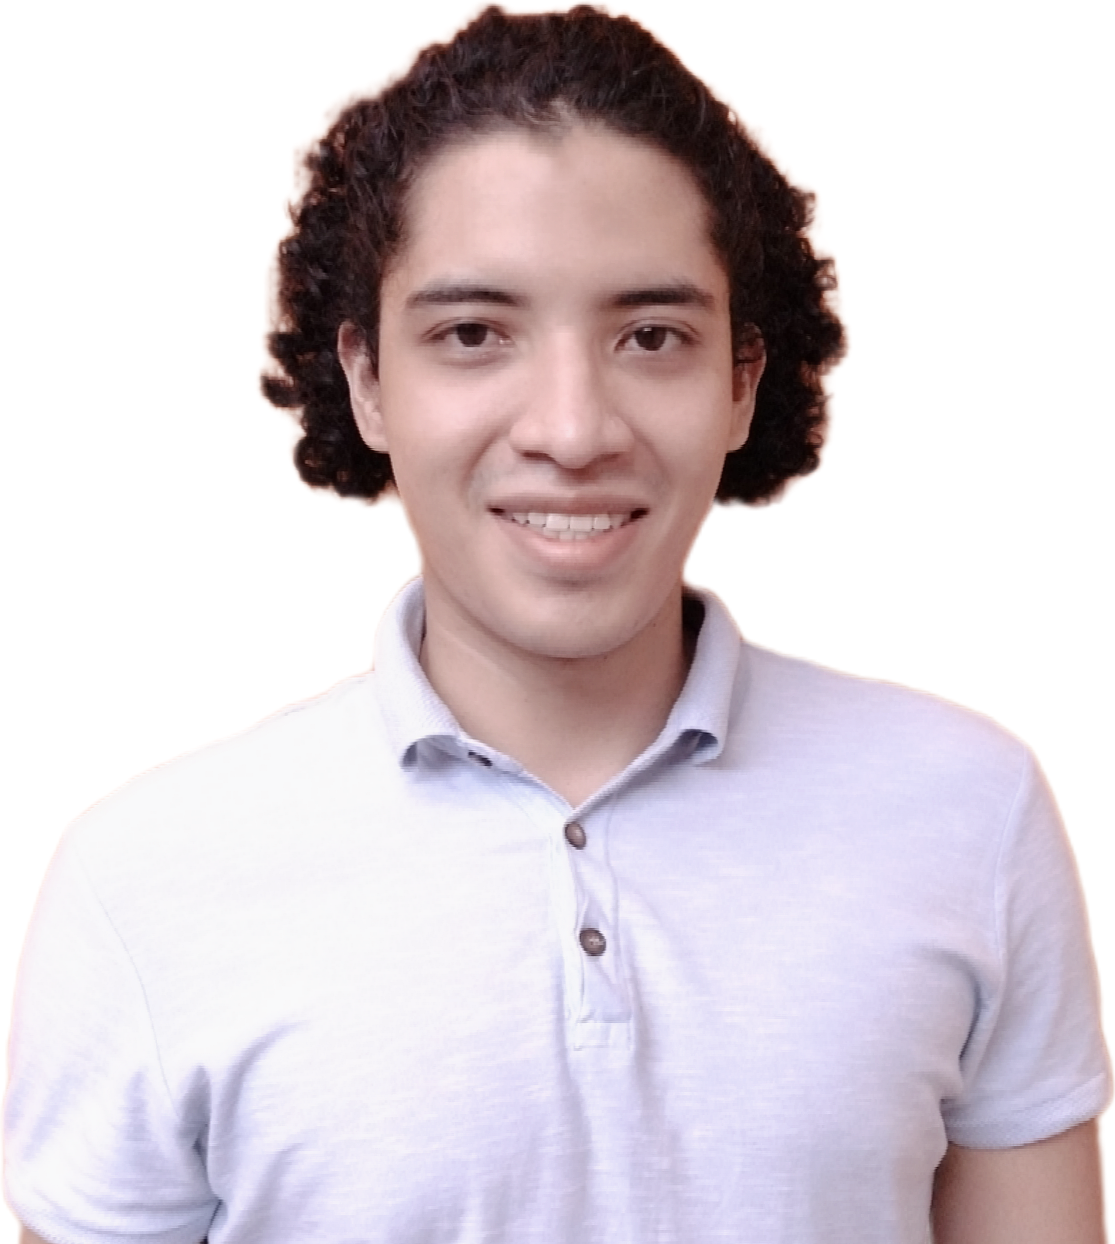
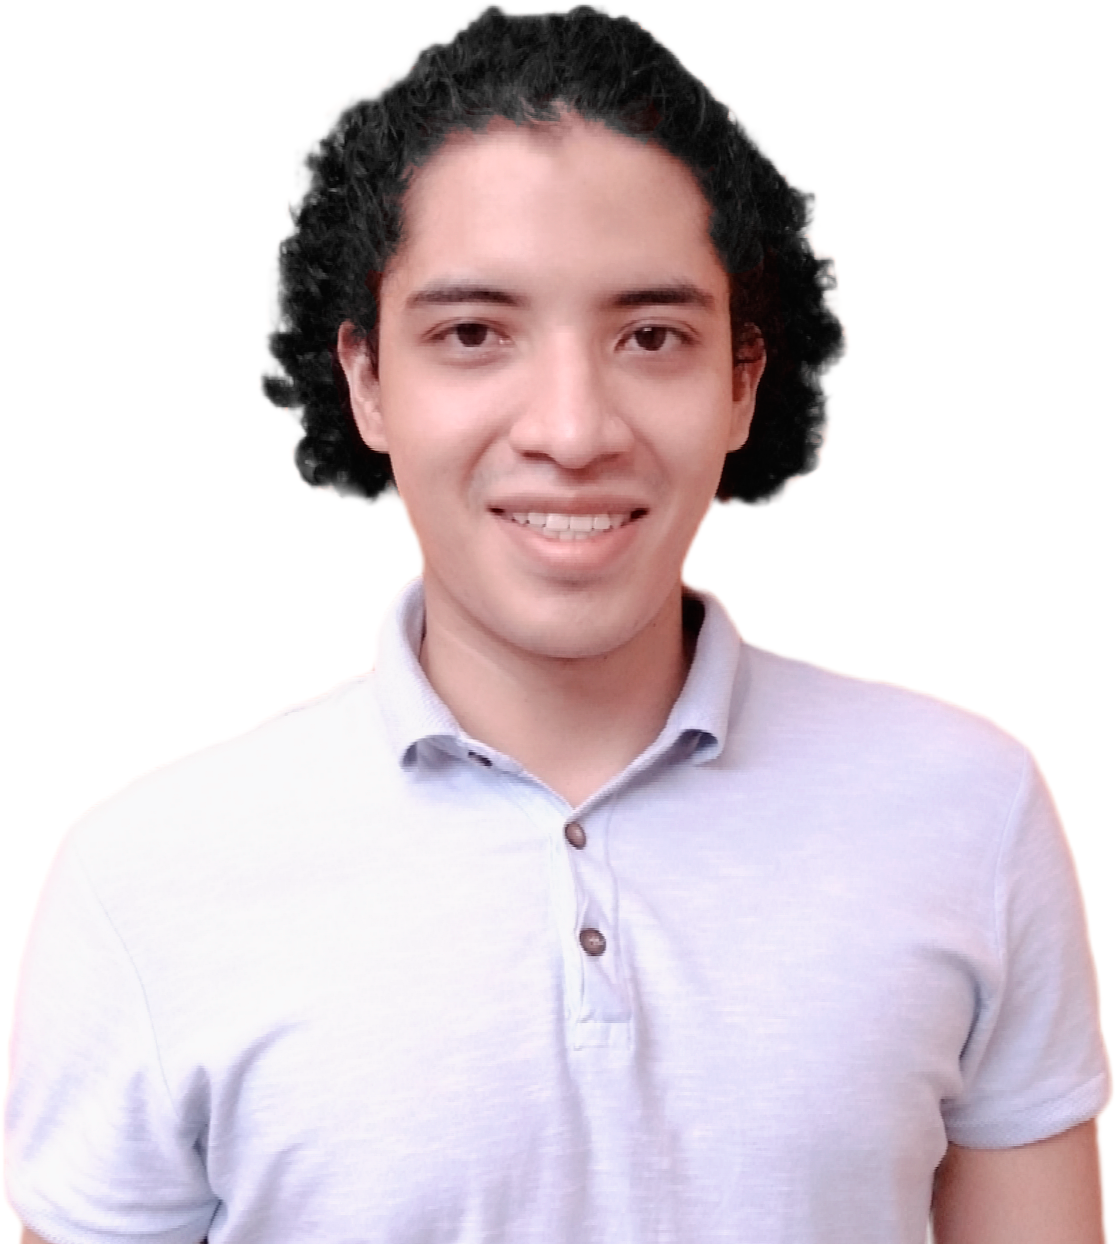
Corrected image

diff --git a/index.html b/index.html
@@ -59,9 +59,9 @@
         <div class="left">
           <p class="subheading">I'm Gaddiel</p>
           <h2 class="heading">
-            <div class="wrapper"> <span>Pages</span> </div>
-            <div class="wrapper"> <span>with</span> </div>
-            <div class="wrapper"> <span>Style</span> </div>
+            <div class="wrapper"> <span>Full</span> </div>
+            <div class="wrapper"> <span>Stack</span> </div>
+            <div class="wrapper"> <span>Developer</span> </div>
           </h2>
           <p class="description"> The new way of making websites and more</p>
           <div class="buttons">
@@ -70,7 +70,7 @@
           </div>
         </div>
         <div class="right">
-          <img src="images/iron-man.jpg" alt="Gaddiel Ramos">
+          <img src="images/iron-man.png" alt="Gaddiel Ramos">
         </div>
       </div>
 
@@ -104,7 +104,7 @@
                 </svg>
               </div>
               <h3 class="item-heading">Python</h3>
-              <p class="item-description"> I'm a python certificated developer, I can help with
+              <p class="item-description"> I'm a python certificated developer, with knowledge on
                 OOP, GUI's, Web Scraping, API's, different libraries and frameworks, and more.
               </p>
             </div>
@@ -135,7 +135,7 @@
 
           <div class="item">
             <div class="img">
-              <img src="images/iron-man.jpg" alt="">
+              <img src="images/iron-man.png" alt="">
             </div>
             <h3 class="testimonial-heading">Random name</h3>
             <p class="testimonial-subheading"> sdgoig isosdf siffs</p>
@@ -149,7 +149,7 @@
 
           <div class="item">
             <div class="img">
-              <img src="images/iron-man.jpg" alt="">
+              <img src="images/iron-man.png" alt="">
             </div>
             <h3 class="testimonial-heading">Random name</h3>
             <p class="testimonial-subheading"> sdgoig isosdf siffs</p>
@@ -163,7 +163,7 @@
 
           <div class="item">
             <div class="img">
-              <img src="images/iron-man.jpg" alt="">
+              <img src="images/iron-man.png" alt="">
             </div>
             <h3 class="testimonial-heading">Random name</h3>
             <p class="testimonial-subheading"> sdgoig isosdf siffs</p>
@@ -197,7 +197,7 @@
           <div class="left">
             <div class="card">
               <div class="img">
-                <img src="images/iron-man.jpg" alt="">
+                <img src="images/iron-man.png" alt="">
               </div>
               <p class="card-description"> Such a great asset, quick learner and perfect complement for every project </p>
               <h3 class="card-name">Gaddiel</h3>
@@ -207,7 +207,7 @@
 
           <div class="right">
             <p class="subheading">Hi! This is Gaddiel</p>
-            <h2 class="slogan">Freelancer Web Designer</h2>
+            <h2 class="slogan">Freelancer Web Developer</h2>
             <p class="right-text">Six months before my senior year at University, I realized my career (Industrial Engineering) doesn't fulfill me, so I started looking for my passion until I found out I could create some designs and sell them. So I learned Graphic Design and started an online store. Nevertheless, this didn't fulfill me either, so it occurred to me "It would be nice if I'm up to make my web page and promote my art" and holding on to that thought began the quest on finding the ultimate course until I get to this Python Bootcamp that caught my attention instantly, since that day I've been following the programming path which I'm very passionate about. :)</p>
             <div class="buttons">
               <a href="files/Resume_Gaddiel_Ramos.pdf" class="primary-btn" Download>Download Resume</a>
